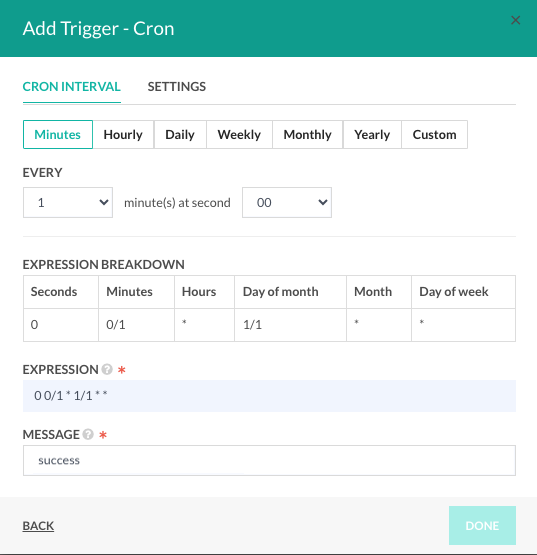
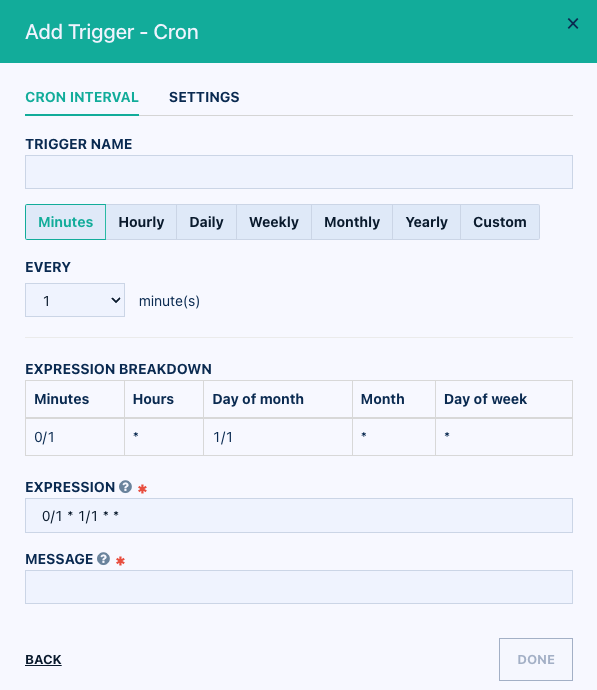
Improve 'Cron (timer) triggers' page (#1319)
* Update cron-triggers.md

1. Deleted the 'Seconds' field from the 'Cron Expression Fields' table, as we support only five fields in the cron expression.

2. Moved 'Predefined Scheduling for Cron Jobs' and 'Fixed Interval Scheduling for Cron Jobs' to the 'Cron Triggers with Codefresh CLI' section (relevant only for legacy cron triggers), since our UI no longer supports them. Additionally, these schedules use six fields in the cron expression, which has been deprecated.

* Rename cron-timer-tab.png to cron-timer-tab-old.png

* Added new cron-time-tab.png

Updating the screenshot in the 'Create a Cron Trigger in UI' section (How-To, Step 5) to reflect the current support for five-field cron expressions in the UI. The previous screenshot incorrectly displays six fields.

* Delete images/pipeline/triggers/cron/cron-timer-tab-old.png

* Update cron-triggers.md

Removed 'Predefined Scheduling for Cron Jobs' and 'Fixed Interval Scheduling for Cron Jobs' sections

diff --git a/_docs/pipelines/triggers/cron-triggers.md b/_docs/pipelines/triggers/cron-triggers.md
@@ -157,7 +157,6 @@ The table below describes the fields you can define in a Cron expression.
 {: .table .table-bordered .table-hover}
 Field    | Mandatory | Allowed values  | Allowed special characters
 |----------   | ---------- | --------------  | --------------------------|
-Seconds      | No         | 0-59            | * / , -|
 Minutes      | Yes        | 0-59            | * / , -|
 Hours        | Yes        | 0-23            | * / , -|
 Day of month | Yes        | 1-31            | * / , - ?|
@@ -177,28 +176,6 @@ The table below describes the purpose of the special characters in a Cron expres
 |**Comma** (`,`) | Commas separate items in a list. For example, using `MON,WED,FRI` in the 5th field (day of week) would mean Mondays, Wednesdays, and Fridays.|
 |**Hyphen** (`-`) | Hyphens define ranges. For example, `9-17` would indicate every hour between 9am and 5pm inclusive.|
 |**Question mark** (`?`) | Question marks are instead of asterisks (`*`) to leave either day-of-month or day-of-week blank.|
-
-### Predefined scheduling for Cron jobs
-
-You can use one of several predefined schedules instead of a Cron expression.
-The table below describes the predefined schedules supported.
-
-{: .table .table-bordered .table-hover}
-|Predefined schedule                  | Description                  | Equivalent to|
-|-----                  | -----------                                | -------------|
-|@YEARLY (or @ANNUALLY) | Run once a year, midnight, Jan. 1st        | 0 0 0 1 1 *|
-|@MONTHLY               | Run once a month, midnight, first of month | 0 0 0 1 **|
-|@WEEKLY                | Run once a week, midnight on Sunday        | 0 0 0 ** 0|
-|@DAILY (or @MIDNIGHT)  | Run once a day, midnight                   | 0 0 0 ** *|
-|@HOURLY                | Run once an hour, beginning of hour        | 0 0 ** **|
-
-### Fixed interval scheduling for Cron jobs
-
-You can also schedule a job to execute at fixed intervals by adding `@every <interval>`. The <interval> is a string that represents the desired frequency.  
-For example, `@every 1h30m10s` would indicate a schedule that triggers every 1 hour, 30 minutes, 10 seconds.
-
->**NOTE**  
-The interval does not take the runtime of the job into account. For example, if a job takes three minutes to run, and it is scheduled to run every five minutes, it will have only two minutes of idle time between each run.
 
 ### Conditional triggers for Cron jobs
 
